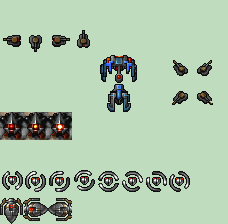
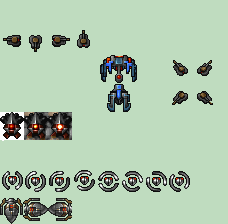
Created a start screen. We now have 2 bullet types and transparency with the turret as well.

Changed region(s): [[0.0, 0.5, 0.1228, 0.625]]

diff --git a/client.py b/client.py
@@ -19,11 +19,29 @@ from pygame.rect import Rect
 from pygame import mixer
 from pygame.mixer import Sound
 
+screen = pygame.display.set_mode((constants.SCREEN_WIDTH, constants.SCREEN_HEIGHT))
+pygame.display.set_caption("Tyrian Defense CLIENT")
+
+introscreen = pygame.image.load('images/pyrian.png')
+screen.blit(introscreen, introscreen.get_rect())
+
+# Display some text
+pygame.font.init()
+arial = pygame.font.match_font('doesNotExist,Arial')
+font = pygame.font.Font(arial, 36)
+text = font.render("Press any key to start", 1, (10, 10, 10))
+textpos = text.get_rect()
+textpos.centerx = screen.get_rect().centerx
+screen.blit(text, textpos)
+
+pygame.display.flip()
+
+# Wait for a key to be pressed
+while (pygame.event.wait().type != pygame.KEYDOWN): pass
+
 conn = socket.socket(socket.AF_INET, socket.SOCK_STREAM)
 conn.connect((sys.argv[-1], constants.PORT))
 
-screen = pygame.display.set_mode((constants.SCREEN_WIDTH, constants.SCREEN_HEIGHT)) #336, 432))
-pygame.display.set_caption("Tyrian Defense CLIENT")
 clock = pygame.time.Clock()
 
 packed = network.receiveData( conn )
@@ -77,8 +95,10 @@ while running:
 				obj = theship = ship.Ship((0,0), level)
 			elif typ == Type.TURRET:
 				obj = turret.Turret((0,0), level)
-			elif typ == Type.BULLET:
-				obj = bullet.Bullet((0,0))
+			elif typ == Type.TBULLET:
+				obj = bullet.Bullet((0,0), "tur")
+			elif typ == Type.SBULLET:
+				obj = bullet.Bullet((0,0), "shp")
 			physicalObjects[ netid ] = obj
 		elif message == Message.OBJSYNC:
 			netid, x, y, vx, vy = struct.unpack( "iffff", network.receiveData( conn ) )

diff --git a/bullet.py b/bullet.py
@@ -7,8 +7,8 @@ from physical_object import PhysicalObject
 
 
 
-BULLET_WIDTH = 20
-BULLET_HEIGHT = 34
+BULLET_WIDTH = 12
+BULLET_HEIGHT = 14
 
 # behavioral constants; these numbers were chosen because they feel about right
 DEFAULT_SPEED = 7 + constants.SCROLL_RATE  # a little faster than the ship's max. speed
@@ -17,22 +17,23 @@ LIFE_SPAN = 45  # in frames at the moment
 class Bullet(PhysicalObject):
 	"""This class represents a generic bullet"""
 	timeToLive = 0
-	typ = Type.BULLET	
+	typ = Type.TBULLET # Start Bullets generically as a turret bullet	 
 	
-	def __init__(self, position):
+	def __init__(self, position, bulletkind):
 		
 		PhysicalObject.__init__(self, position)
 
 		self.collisionType = physical_object.COLLISION_TYPE_BULLET
 		self.physicsRect = pygame.rect.Rect(self.r_x, self.r_y, BULLET_WIDTH, BULLET_HEIGHT)
 
-		self.image = pygame.image.load('images/projectiles.png')
+		self.image = pygame.image.load('images/bullets.png')
 		self.rect = self.image.get_rect()
 
-		self.actions = {"all": (167, 113, self.physicsRect.width, self.physicsRect.height)}
+		self.kinds = {"shp": (0, 0, self.physicsRect.width, self.physicsRect.height),
+			      "tur": (12, 0, self.physicsRect.width, self.physicsRect.height)}
 
-		self.action = "all"
-		self.area = pygame.rect.Rect(self.actions[self.action])
+		self.kind = bulletkind
+		self.area = pygame.rect.Rect(self.kinds[self.kind])
 
 		self.timeToLive = LIFE_SPAN
 

diff --git a/server.py b/server.py
@@ -15,6 +15,27 @@ from pygame.rect import Rect
 import play_sound
 from pygame import mixer
 from pygame.mixer import Sound
+#from pygame import font
+
+# ready the display
+screen = pygame.display.set_mode((constants.SCREEN_WIDTH, constants.SCREEN_HEIGHT))
+pygame.display.set_caption("Tyrian Defense SERVER")
+
+# load introscreen
+introscreen = pygame.image.load('images/pyrian.png')
+screen.blit(introscreen, introscreen.get_rect())
+
+# Display some text
+pygame.font.init()
+arial = pygame.font.match_font('doesNotExist,Arial')
+font = pygame.font.Font(arial, 36)
+text = font.render("Waiting for client", 1, (10, 10, 10))
+textpos = text.get_rect()
+textpos.centerx = screen.get_rect().centerx
+screen.blit(text, textpos)
+
+
+pygame.display.flip()
 
 s = socket.socket( socket.AF_INET, socket.SOCK_STREAM )
 s.bind( ('', constants.PORT) )
@@ -22,9 +43,6 @@ s.listen( 1 )
 conn, addr = s.accept()
 print 'Connection from', addr
 
-
-screen = pygame.display.set_mode((constants.SCREEN_WIDTH, constants.SCREEN_HEIGHT)) #336, 432))
-pygame.display.set_caption("Tyrian Defense SERVER")
 clock = pygame.time.Clock()
 
 level = level.Level()

diff --git a/ship.py b/ship.py
@@ -134,7 +134,8 @@ class Ship(PhysicalObject):
 				soundEfx = pygame.mixer.Sound(constants.BULLET_SFX)
 				soundEfx.set_volume(0.7)
 				play_sound.PlaySounds(soundEfx)
-				theBullet = bullet.Bullet((self.rect.x + SHIP_WIDTH/2 - bullet.BULLET_WIDTH/2, self.rect.y - (bullet.BULLET_HEIGHT + 6)))  # gets bullet far enough from ship
+				theBullet = bullet.Bullet((self.rect.x + SHIP_WIDTH/2 - bullet.BULLET_WIDTH/2, self.rect.y - (bullet.BULLET_HEIGHT + 6)), "shp")  # gets bullet far enough from ship
+				theBullet.typ = Type.SBULLET
 				# the following two lines are for classic arcade physics
 				theBullet.v_x = 0
 				theBullet.v_y = -bullet.DEFAULT_SPEED

diff --git a/turret.py b/turret.py
@@ -53,7 +53,7 @@ class Turret(PhysicalObject):
 			soundEfx = pygame.mixer.Sound(constants.TURRET_BULLET_SFX)
 			soundEfx.set_volume(0.5)
 			play_sound.PlaySounds(soundEfx)
-			theBullet = bullet.Bullet((self.rect.x + TURRET_WIDTH/2 - bullet.BULLET_WIDTH/2, self.rect.y + (bullet.BULLET_HEIGHT + 6)))  # gets bullet far enough from ship
+			theBullet = bullet.Bullet((self.rect.x + TURRET_WIDTH/2 - bullet.BULLET_WIDTH/2, self.rect.y + (bullet.BULLET_HEIGHT + 6)), "tur")  # gets bullet far enough from ship
 			# the following two lines are for classic arcade physics
 			theBullet.v_x = 0
 			theBullet.v_y = bullet.DEFAULT_SPEED

diff --git a/network.py b/network.py
@@ -11,6 +11,8 @@ class Type:
 	SHIP = 1
 	BULLET = 2
 	TURRET = 3
+	TBULLET = 4
+	SBULLET = 5
 
 def sendData( conn, data ):
 	size = struct.pack( "I", len( data ) )
